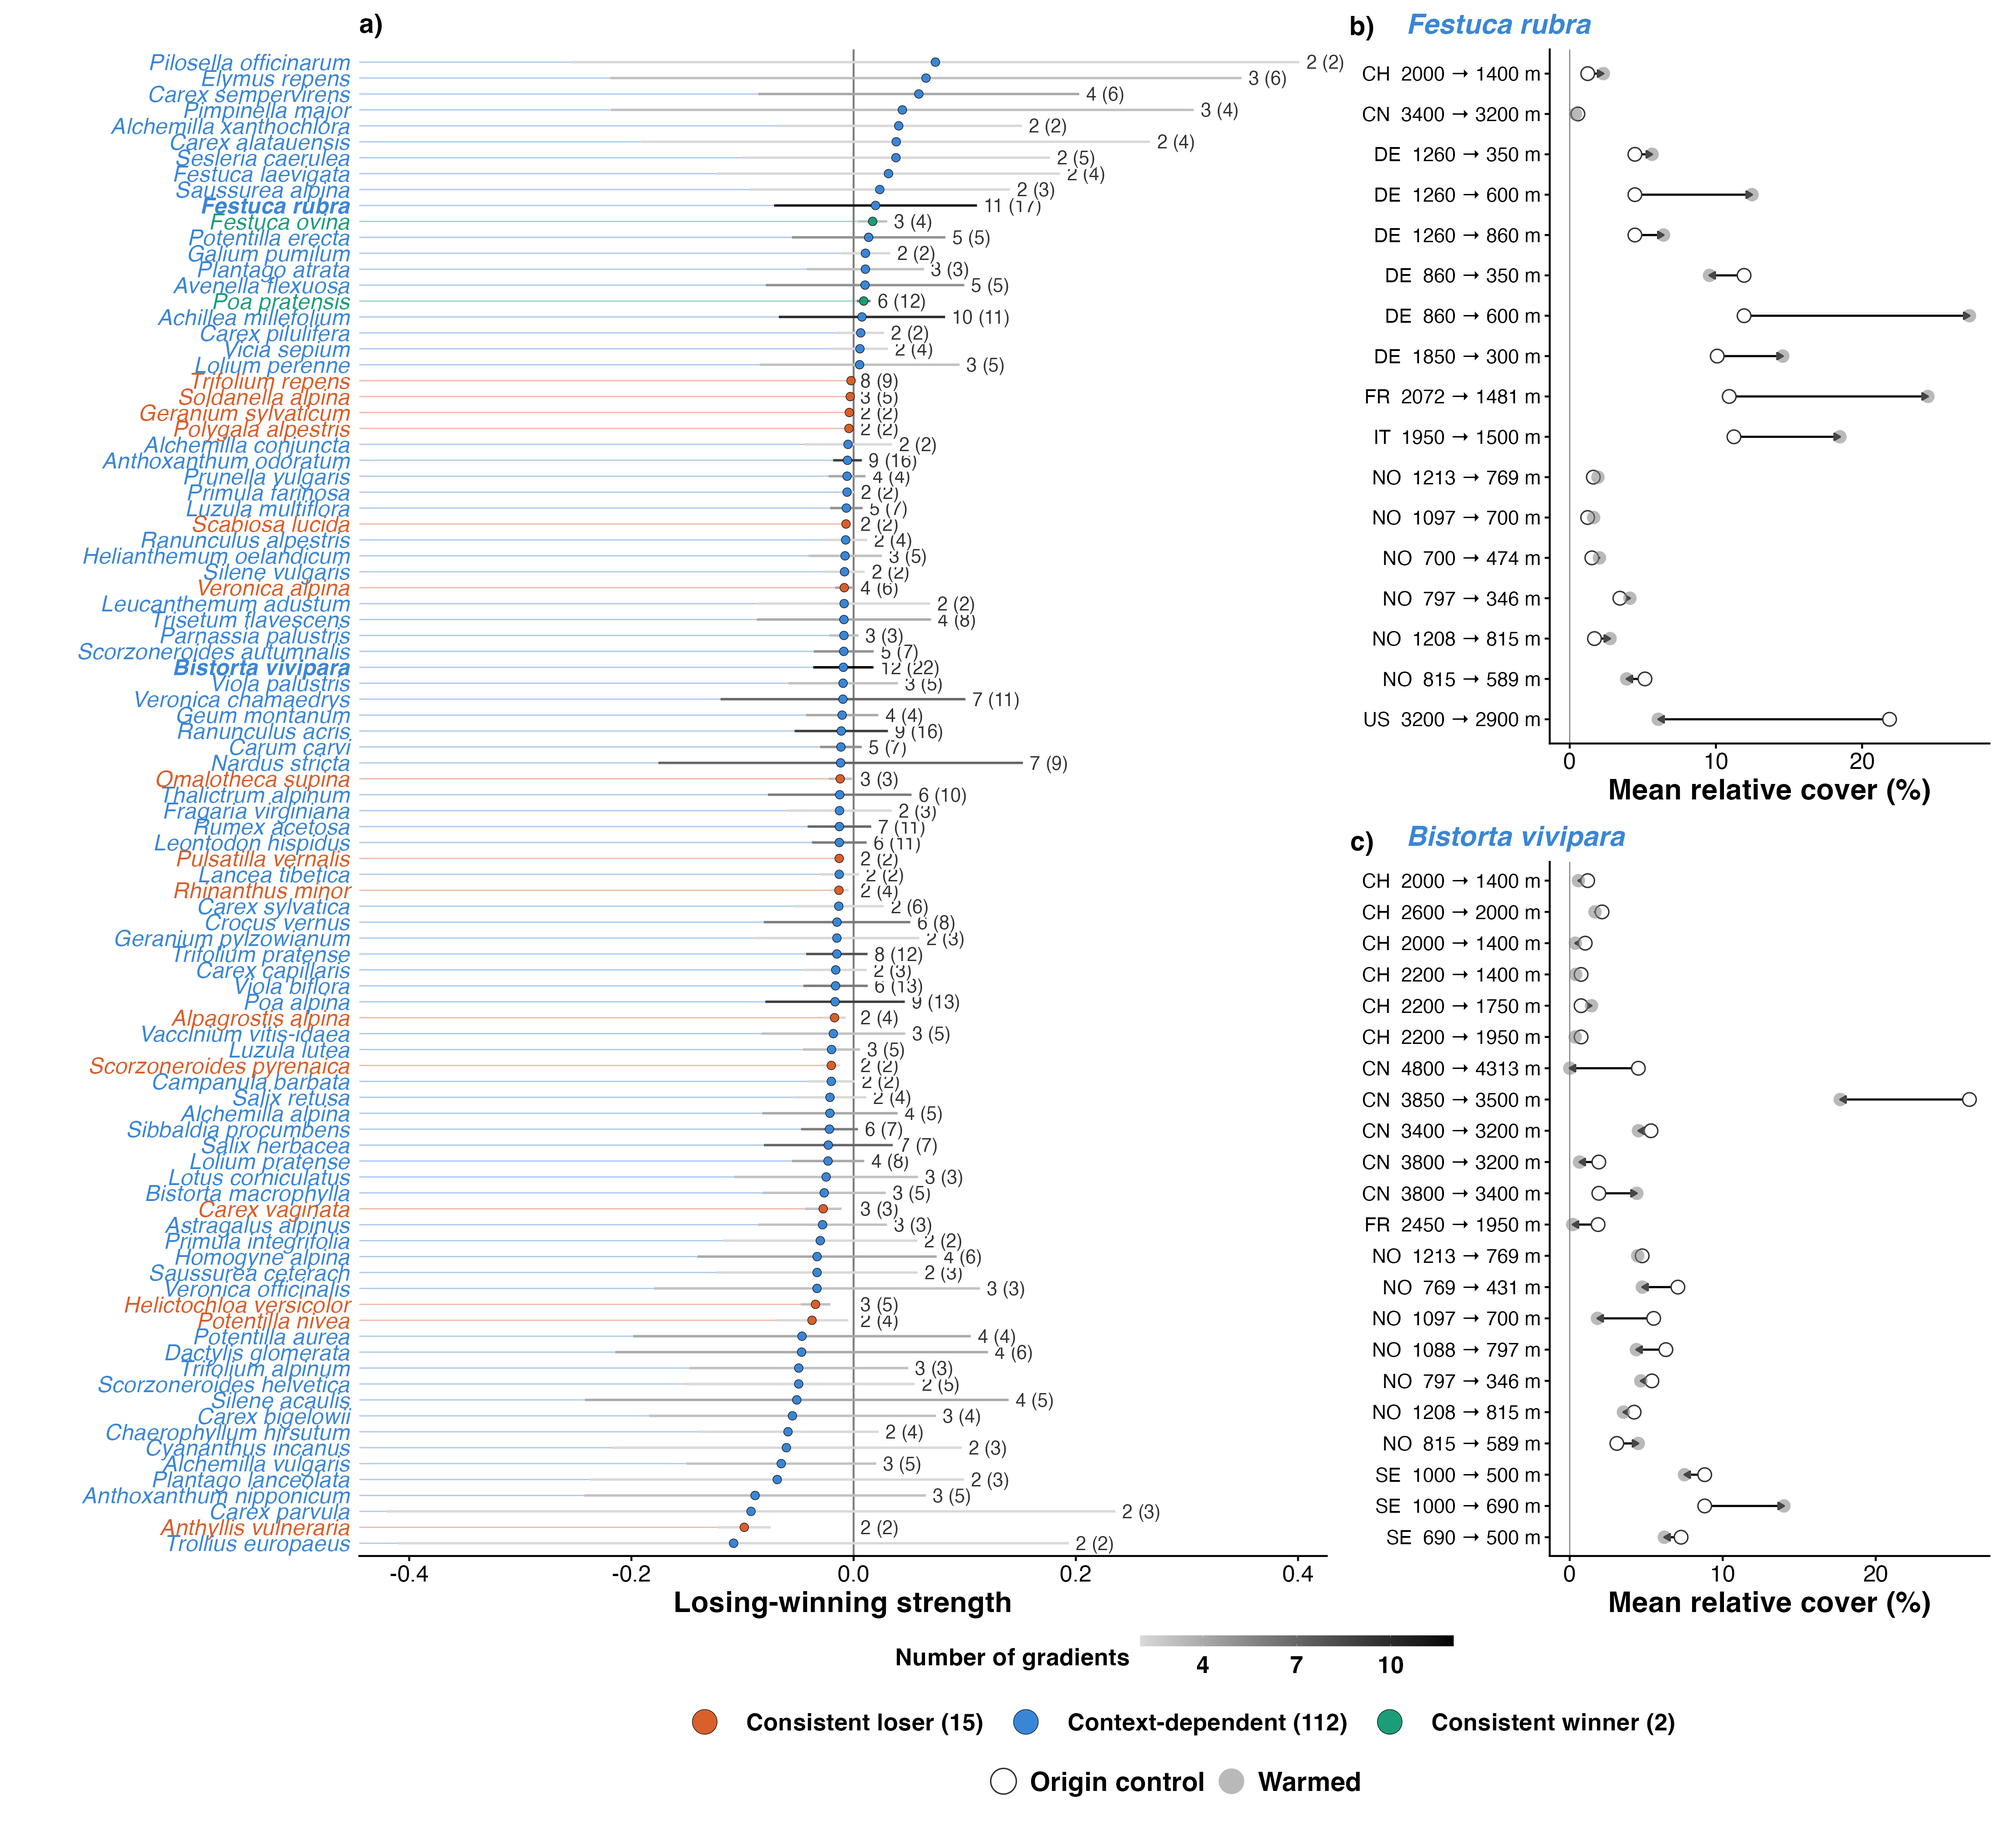
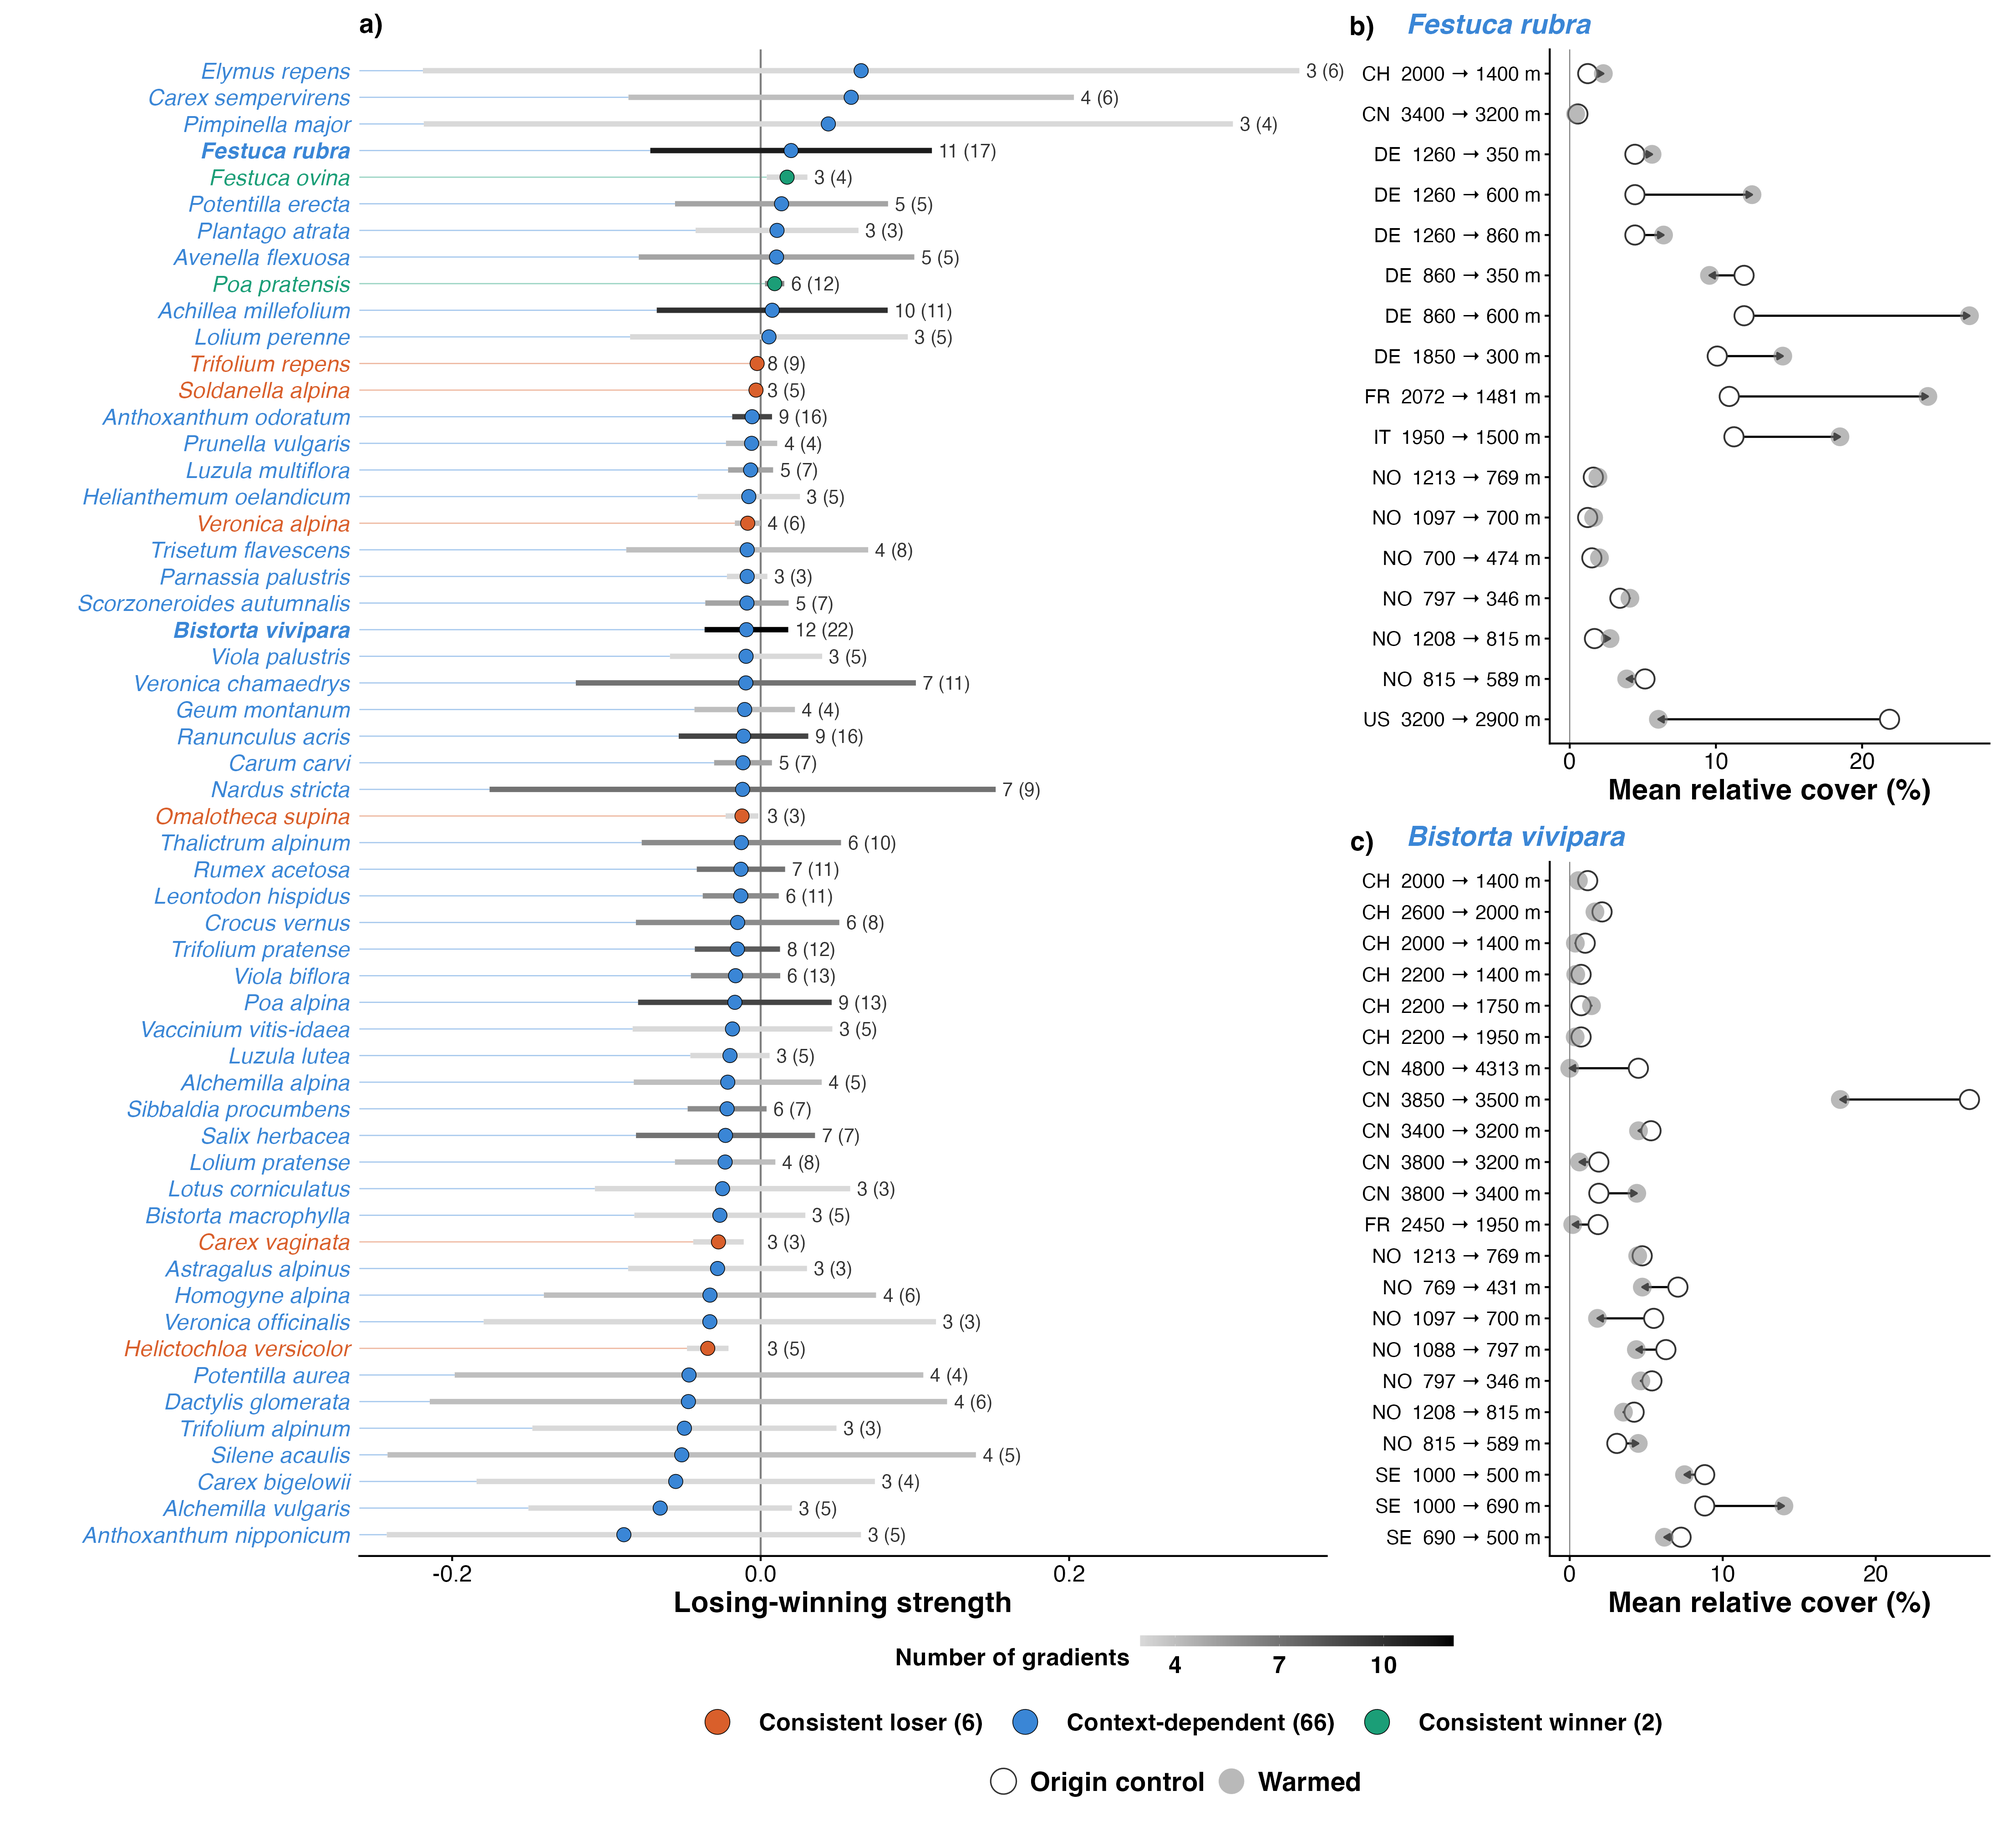
step 04: Step C eligibility at least 3 gradients (74 species; 6 consistent losers, 2 winners); Fig 2 thicker intervals, larger points, class-coloured guides; step 01 figure d) cut-off at 3 gradients; step 03 appendix Fig 1a on residents in at least 3 gradients (Bills)

diff --git a/reports/04_classification.md b/reports/04_classification.md
@@ -1,6 +1,6 @@
 # Step 04: Consistency across experiments (Step C, residents)
 
-For the 129 resident species found in at least two gradients (676 effects in 42 experiments), one `rma.mv` estimated a pooled losing-winning strength per species and a species-specific among-experiment variance, on the strength from year 3 (step 03b). Each species' prediction interval for a new experiment, which carries both its among-experiment variance and the uncertainty of its pooled strength, places it as a consistent winner (interval above zero), a consistent loser (below zero) or context-dependent (spanning zero).
+For the 74 resident species found in at least three gradients (523 effects in 39 experiments), one `rma.mv` estimated a pooled losing-winning strength per species and a species-specific among-experiment variance, on the strength from year 3 (step 03b). Each species' prediction interval for a new experiment, which carries both its among-experiment variance and the uncertainty of its pooled strength, places it as a consistent winner (interval above zero), a consistent loser (below zero) or context-dependent (spanning zero).
 
 ## Model as fitted (for reviewers)
 
@@ -18,49 +18,40 @@ p <- predict(m_s)
 | rule | n |
 | --- | --- |
 | effects (step 03b) | 1,004 |
-| species in >= 2 gradients | 129 |
-| their effects | 676 |
-| experiments they occur in | 42 |
-| species with tau2_s estimated at about 0 (< 1e-8) | 31 |
+| species in >= 3 gradients | 74 |
+| their effects | 523 |
+| experiments they occur in | 39 |
+| species with tau2_s estimated at about 0 (< 1e-8) | 14 |
 
 ## Classes
 
 | class | species |
 | --- | --- |
-| Consistent loser | 15 |
-| Context-dependent | 112 |
+| Consistent loser | 6 |
+| Context-dependent | 66 |
 | Consistent winner | 2 |
 
 Consistent winners and losers:
 
 | species | class | n_experiments | mu | se_mu | tau | lower | upper |
 | --- | --- | --- | --- | --- | --- | --- | --- |
-| Anthyllis vulneraria | Consistent loser | 2 | -0.0984 | 0.0112 | 0.0046 | -0.1220 | -0.0748 |
-| Potentilla nivea | Consistent loser | 4 | -0.0374 | 0.0095 | 0.0137 | -0.0701 | -0.0047 |
 | Helictochloa versicolor | Consistent loser | 5 | -0.0343 | 0.0059 | 0.0036 | -0.0478 | -0.0209 |
 | Carex vaginata | Consistent loser | 3 | -0.0274 | 0.0084 | 0.0000 | -0.0437 | -0.0110 |
-| Scorzoneroides pyrenaica | Consistent loser | 2 | -0.0201 | 0.0039 | 0.0000 | -0.0278 | -0.0123 |
-| Alpagrostis alpina | Consistent loser | 4 | -0.0172 | 0.0042 | 0.0029 | -0.0272 | -0.0071 |
-| Rhinanthus minor | Consistent loser | 4 | -0.0132 | 0.0044 | 0.0000 | -0.0218 | -0.0046 |
-| Pulsatilla vernalis | Consistent loser | 2 | -0.0130 | 0.0024 | 0.0000 | -0.0177 | -0.0082 |
 | Omalotheca supina | Consistent loser | 3 | -0.0121 | 0.0054 | 0.0000 | -0.0227 | -0.0014 |
 | Veronica alpina | Consistent loser | 6 | -0.0084 | 0.0042 | 0.0000 | -0.0167 | -0.0001 |
-| Scabiosa lucida | Consistent loser | 2 | -0.0068 | 0.0021 | 0.0000 | -0.0109 | -0.0028 |
-| Polygala alpestris | Consistent loser | 2 | -0.0042 | 0.0020 | 0.0000 | -0.0082 | -0.0002 |
-| Geranium sylvaticum | Consistent loser | 2 | -0.0039 | 0.0015 | 0.0000 | -0.0068 | -0.0009 |
 | Soldanella alpina | Consistent loser | 5 | -0.0030 | 0.0007 | 0.0000 | -0.0045 | -0.0016 |
 | Trifolium repens | Consistent loser | 9 | -0.0023 | 0.0007 | 0.0000 | -0.0037 | -0.0009 |
 | Poa pratensis | Consistent winner | 12 | 0.0091 | 0.0032 | 0.0000 | 0.0028 | 0.0153 |
 | Festuca ovina | Consistent winner | 4 | 0.0171 | 0.0067 | 0.0000 | 0.0040 | 0.0303 |
 
-Species with tau2_s at about zero (their interval is the uncertainty of the mean alone): Campanula rotundifolia, Carex myosuroides, Carex norvegica, Carex pilulifera, Carex vaginata, Carlina acaulis, Cerastium fontanum, Euphrasia minima, Euphrasia salisburgensis, Festuca ovina, Fragaria virginiana, Geranium sylvaticum, Leucanthemopsis alpina, Myosotis alpestris, Omalotheca supina, Parnassia palustris, Poa pratensis, Polygala alpestris, Pulsatilla vernalis, Rhinanthus minor, Scabiosa lucida, Scorzoneroides pyrenaica, Silene vulgaris, Soldanella alpina, Taraxacum mongolicum, Thesium alpinum, Trifolium repens, Veronica alpina, Veronica aphylla, Veronica serpyllifolia, Viola riviniana.
+Species with tau2_s at about zero (their interval is the uncertainty of the mean alone): Campanula rotundifolia, Carex norvegica, Carex vaginata, Cerastium fontanum, Euphrasia minima, Festuca ovina, Myosotis alpestris, Omalotheca supina, Parnassia palustris, Poa pratensis, Soldanella alpina, Trifolium repens, Veronica alpina, Veronica serpyllifolia.
 
 ## Fig 2
 
 ![Fig 2](../figures/main/fig2.png)
 
 Fig 2 b) and c): Festuca rubra and Bistorta vivipara, the highest and lowest pooled strength among species in at least 11 gradients; one row per experiment (country, origin to destination elevation), mean relative cover over years 3 and later in origin controls (hollow) and warmed plots (filled).
-Fig 2 a): point = pooled strength, filled by class; line = 95% interval including the variation among experiments (a line that does not cross zero marks a consistent loser or winner), shaded by the number of gradients and labelled gradients (experiments). 35 context-dependent species with a pooled strength between -0.005 and +0.005 are not shown.
+Fig 2 a): point = pooled strength, filled by class; line = 95% interval including the variation among experiments (a line that does not cross zero marks a consistent loser or winner), shaded by the number of gradients and labelled gradients (experiments). 18 context-dependent species with a pooled strength between -0.005 and +0.005 are not shown.
 
 ## Warnings captured
 

diff --git a/reports/01_relative_cover.md b/reports/01_relative_cover.md
@@ -24,7 +24,7 @@ Species x experiment combinations in neither pool (before the pool-size rule):
 
 ## What the pool rule keeps and leaves behind
 
-Every species x experiment recorded in a control group, by its plot-year records there and by what the rule did with it (a); totals (b); per experiment, the species recorded in the origin controls (c); kept species by the number of gradients they occur in, with the at-least-2 cut-off that steps 04 and 05 apply (d). The rule is not a cut-off on records: combinations with many records but in few plots or few years are left behind, and some with few records are kept where the plots are few.
+Every species x experiment recorded in a control group, by its plot-year records there and by what the rule did with it (a); totals (b); per experiment, the species recorded in the origin controls (c); kept species by the number of gradients they occur in, with the cut-off applied downstream, at least 3 gradients for the classification (step 04) and the ladder (step 05) (d). The rule is not a cut-off on records: combinations with many records but in few plots or few years are left behind, and some with few records are kept where the plots are few.
 
 ![Kept and left behind](../figures/diagnostics/01_pool_rule.png)
 

diff --git a/reports/03_temporal.md b/reports/03_temporal.md
@@ -56,6 +56,18 @@ Strata are drawn to one absolute scale, so columns shrink as experiments end and
 
 Switches between a significant winner and a significant loser, in either direction: 2 to 3: 0; 3 to 4: 0; 4 to 6: 0. Ribbons that cross zero with a significant class at either end are drawn darker; every ribbon that crosses zero is labelled where it enters the next anchor with its count and its share of the class it started from.
 
+## Appendix: residents in at least 3 gradients
+
+The same classes and flows, restricted to the 74 resident species found in at least 3 gradients, the species on which the classification (step 04) and the ladder (step 05) rest (decided 2 Nov). Classified combinations per anchor: year 2: 515, year 3: 488, year 4: 387, year 6: 233.
+
+| pair | n | sign_agreement | ccc |
+| --- | --- | --- | --- |
+| 2 to 3 | 485 | 0.728 | 0.510 |
+| 3 to 4 | 383 | 0.828 | 0.784 |
+| 4 to 6 | 201 | 0.806 | 0.799 |
+
+![Fig 1a, residents in at least 3 gradients (appendix draft)](../figures/diagnostics/03_figS_residents_3gradients_draft.png)
+
 ## Warnings captured
 
 - The `label.size` argument of `geom_label()` is deprecated as of ggplot2 3.5.0.
